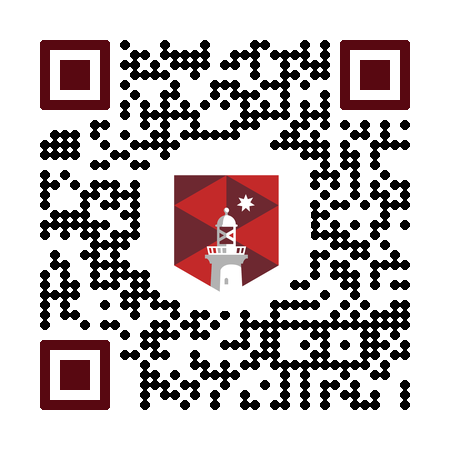
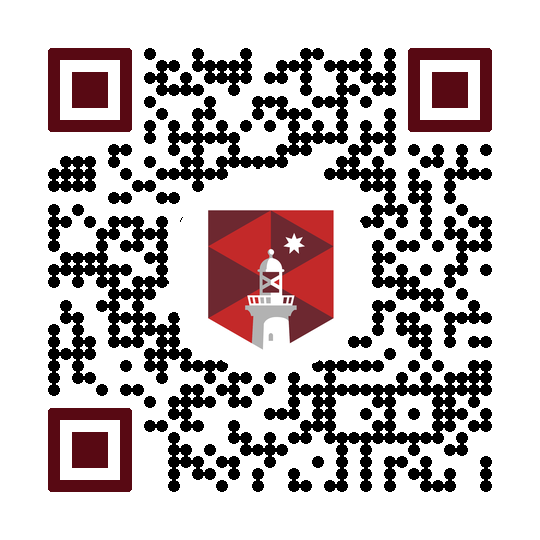
CI: add zbar install in tests; stricter URL verification; larger modules; regenerate examples

diff --git a/src/branded_qr.py b/src/branded_qr.py
@@ -63,18 +63,18 @@ def make_branded_qr(
     smooth_sigma: float = 0.0,
     ring_thickness: int = 0,
     ring_color: Tuple[int, int, int, int] = (200, 200, 200, 255),
-    qr_scale: int = 10,
+    qr_scale: int = 12,
     border_modules: int = 4,
     error: str = "h",
     data_dark: str = "black",
     finder_from_logo: bool = True,
     finder_dark_color: Optional[str] = None,
     module_shape: str = "circle",  # "circle" or "square"
-    edge_clearance: float = 1.0,
+    edge_clearance: float = 0.7,
     save_path: Optional[str] = None,
     university: Optional[str] = None,
     enforce_occlusion_limit: bool = True,
-    occlusion_threshold: float = 0.18,
+    occlusion_threshold: float = 0.16,
     min_pad_frac: float = 0.24,
     min_target_frac: float = 0.22,
     finder_rounding: float = 0.3,  # fraction of qr_scale for finder corner radius (slightly more rounding)
@@ -324,7 +324,7 @@ def make_branded_qr(
             def _can_decode(img: Image.Image) -> bool:
                 try:
                     res = _decode(img)
-                    return any(symbol.data.decode("utf-8", "ignore") for symbol in res)
+                    return any(symbol.data.decode("utf-8", "ignore") == url for symbol in res)
                 except Exception:
                     return False
 
@@ -387,16 +387,16 @@ def main() -> None:
     parser.add_argument("--smooth-sigma", type=float, default=0.0)
     parser.add_argument("--ring-thickness", type=int, default=0)
     parser.add_argument("--ring-color", type=str, default="#c8c8c8")
-    parser.add_argument("--qr-scale", type=int, default=10)
+    parser.add_argument("--qr-scale", type=int, default=12)
     parser.add_argument("--border-modules", type=int, default=4)
     parser.add_argument("--error", type=str, default="h", choices=["l", "m", "q", "h"]) 
     parser.add_argument("--data-dark", type=str, default="black")
     parser.add_argument("--finder-from-logo", action="store_true", default=True)
     parser.add_argument("--finder-dark-color", type=str, default=None)
     parser.add_argument("--module-shape", type=str, default="circle", choices=["circle", "square"]) 
-    parser.add_argument("--edge-clearance", type=float, default=1.0)
+    parser.add_argument("--edge-clearance", type=float, default=0.7)
     parser.add_argument("--enforce-occlusion-limit", action="store_true", default=True)
-    parser.add_argument("--occlusion-threshold", type=float, default=0.18)
+    parser.add_argument("--occlusion-threshold", type=float, default=0.16)
     parser.add_argument("--min-pad-frac", type=float, default=0.24)
     parser.add_argument("--min-target-frac", type=float, default=0.22)
     parser.add_argument("--finder-rounding", type=float, default=0.2)
